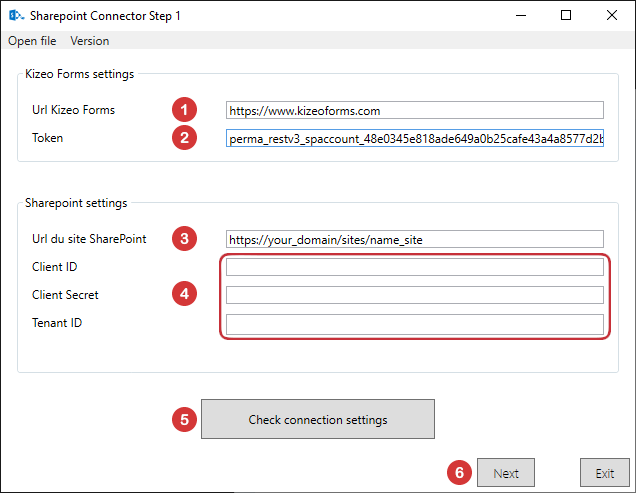
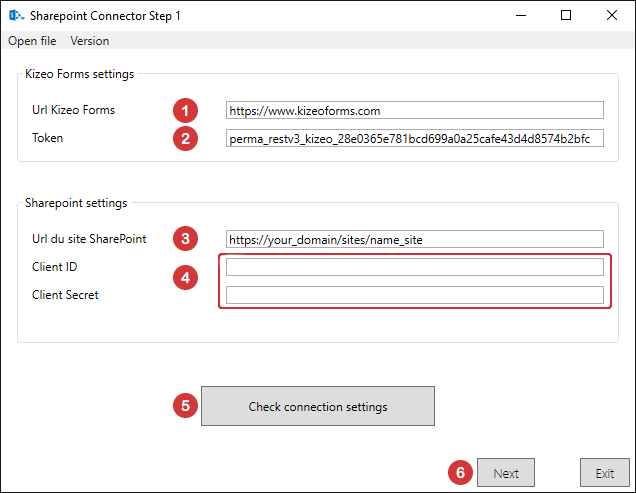
list sharepoint

diff --git a/docs/sp-update-list.md b/docs/sp-update-list.md
@@ -26,7 +26,23 @@ sidebar_label: SharePoint List
     . You can retrieve the list ID from the address bar after "listedit.aspx?List=".
     ![SharePoint List ID][list-04]  
 
-    
+3. Click on combo box
+    The list in the combo box, are the names of the columns of the SharePoint list.
+    ![SharePoint List combo][list-06]  
+    ![SharePoint List column][list-05]  
+
+4. Enter the name of the KizeoForms field tag you want to put in the SharePoint column.
+
+5. Data type
+    ![SharePoint List type][list-07] 
+    Unique must be used on a SharePoint column that is of type unique item.
+    ![Unique Type][list-08] 
+    Allows you to update an entry in the list, rather than adding a new line.
+
+6. Adds a new link Column / Tag
+7. Modifies the selected line with the new parameters entered.
+8. Delete the selected row
+9. Validate settings
 
 <!-- ************************** -->
 <!-- ***** Pictures List ****** --> 
@@ -36,3 +52,7 @@ sidebar_label: SharePoint List
 [list-02]: /kizeo-forms-documentations/img/sp/en/list-update-02.png
 [list-03]: /kizeo-forms-documentations/img/sp/en/list-update-03.png
 [list-04]: /kizeo-forms-documentations/img/sp/en/list-update-04.png
+[list-05]: /kizeo-forms-documentations/img/sp/en/list-update-05.png
+[list-06]: /kizeo-forms-documentations/img/sp/en/list-update-06.png
+[list-07]: /kizeo-forms-documentations/img/sp/en/list-update-07.png
+[list-08]: /kizeo-forms-documentations/img/sp/en/list-update-08.png

diff --git a/docs/sp-token.md b/docs/sp-token.md
@@ -41,11 +41,12 @@ So far, you've had:
 - the client id
 - the secret id
 - the SharePoint URL.
-The tenant id is on this page : <span style="color:#ABD33D">https://<span></span>your_sharepoint_domain/Sites/your_site/_layouts/15/appprincipals.aspx</span>
+<!-- The tenant id is on this page : <span style="color:#ABD33D">https://<span></span>your_sharepoint_domain/Sites/your_site/_layouts/15/appprincipals.aspx</span> -->
 
-![Warning][token-03]
-It is after the "@".
-You are now in possession of all the identifiers requested in the Wizard of the SharePoint Connector. 
+<!-- ![Warning][token-03] -->
+<!-- It is after the "@". -->
+You are now in possession of all the identifiers requested in the Wizard of the SharePoint Connector.
+
 ![Warning][token-04]
 
 ### Step 2: Grant approvals to the SP Connector 
